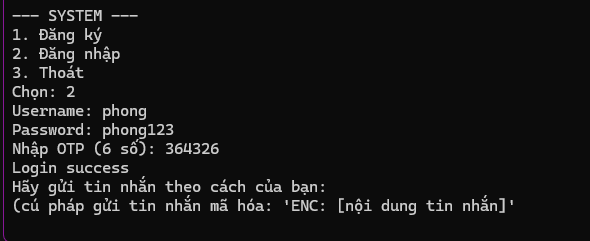
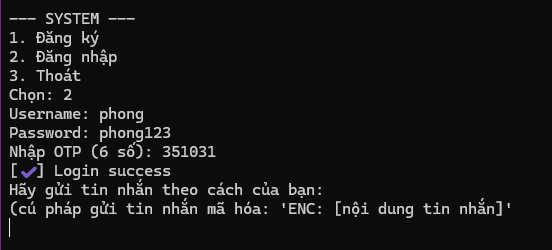
src

Changed region(s): [[0.0, 0.0, 0.9239, 1.0]]

diff --git a/src/client.py b/src/client.py
@@ -1,4 +1,4 @@
-import socket, ssl, threading
+import socket, ssl, threading, base64, os
 from cryptography.fernet import Fernet
 
 host = '127.0.0.1'
@@ -14,13 +14,32 @@ except:
 def receive(sock):
     while True:
         try:
-            data = sock.recv(1024)
+            data = sock.recv(5242880)
             if not data: break
-            try: #nếu tin nhắn mã hóa E2EE
-                print(f"\n[Room chat]: {cipher.decrypt(data).decode()}")
-            except: #nếu tin nhắn không mã hóa
-                print(data.decode(), end ="", flush=True) #flush để hiện hết dữ liệu ra màn hình, tránh bị giữ trong bộ đệm
-        except: break
+            try: 
+                decrypted_text = cipher.decrypt(data).decode()
+
+                if decrypted_text.startswith("File:"): #nếu là gửi file
+                    parts = decrypted_text.split("|", 1) # 1 nghĩa là chỉ cắt ở dấu | đầu tiên tìm thấy
+                    filename = parts[0].replace("File:","") #xóa chữ File: đi, chỉ để lại tên file
+                    file_b64 = parts[1]
+
+                    file_bytes = base64.b64decode(file_b64)
+
+                    #lưu file vào máy 
+                    save_path = "downloaded_" + filename
+                    with open(save_path, "wb") as f: 
+                        f.write(file_bytes)
+                    print(f"\n[📂] Đã nhận file '{save_path}'")
+                else: #nếu là tin nhắn text mã hóa bình thường
+                    print(f"\n[🔑] {decrypted_text}")
+            except: 
+                #Nếu tin nhắn không mã hóa (menu hệ thống)
+                print(data.decode(), end ="", flush=True) #end="" để không tự động xuống dòng
+                                                        #flush=true để hiển thị luôn ra màn hình, tránh giữ lại trong buffer
+        except Exception as e:
+            break
+
 
 def start_client():
     #bỏ qua check chứng chỉ uy tín không
@@ -41,8 +60,31 @@ def start_client():
         msg = input()
         if msg == 'exit': break
 
+        #nếu gõ "File: đường dẫn file" thì sẽ gửi file mã hóa
+        if msg.startswith("File:"):
+            file_path = msg[5:].strip()
+            if os.path.exists(file_path):
+                filename = os.path.basename(file_path)
+
+                #1. đọc file dưới dạng nhị phân
+                with open(file_path, "rb") as f:
+                    file_data = f.read()
+                
+                #2. encode base64 file
+                file_b64 = base64.b64encode(file_data).decode('utf-8')
+
+                #3. ghép thành chuỗi dài
+                payload = f"File:{filename}|{file_b64}"
+
+                #4. mã hóa E2EE
+                enc_payload = cipher.encrypt(payload.encode())
+                s.sendall(enc_payload)
+                print(f"[✔] Đã mã hóa và gửi file {filename}")
+            else: 
+                print(f"[❌] không tìm thấy tệp: {filename}")
+
         #nếu gõ "ENC: nội dung" thì sẽ mã hóa
-        if msg.startswith("ENC:"):
+        elif msg.startswith("ENC:"):
             real_msg = msg[4:]
             enc = cipher.encrypt(real_msg.encode())
             s.sendall(enc)

diff --git a/src/server.py b/src/server.py
@@ -33,9 +33,9 @@ def handle_client(client_sock, addr):
 
                     uri = pyotp.TOTP(otp_secret).provisioning_uri(name=u, issuer_name="SecureApp")
                     link = f"https://api.qrserver.com/v1/create-qr-code/?data={uri}&size=200x200"
-                    client_sock.sendall(f"Đăng ký thành công\nSecret: {otp_secret}\nLink QR: {link}\n".encode())
+                    client_sock.sendall(f"[✔] Đăng ký thành công\nSecret: {otp_secret}\nLink QR: {link}\n".encode())
                 except: 
-                    client_sock.sendall("Lỗi: Username đã tồn tại!\n".encode())
+                    client_sock.sendall("[❌] Username đã tồn tại!\n".encode())
             elif choice == '2':
                 client_sock.sendall("Username: ".encode()); u = client_sock.recv(1024).decode().strip()
                 client_sock.sendall("Password: ".encode()); p = client_sock.recv(1024).decode().strip()
@@ -51,21 +51,21 @@ def handle_client(client_sock, addr):
                         client_sock.sendall("Nhập OTP (6 số): ".encode())
                         otp_in = client_sock.recv(1024).decode().strip()
                         if pyotp.TOTP(otp_sec).verify(otp_in):
-                            client_sock.sendall("Login success\n".encode())
+                            client_sock.sendall("[✔] Login success\n".encode())
                             client_sock.sendall("""Hãy gửi tin nhắn theo cách của bạn:
 (cú pháp gửi tin nhắn mã hóa: 'ENC: [nội dung tin nhắn]'\n""".encode())
                             username = u
                             clients.append(client_sock)
                             break
-                        else: client_sock.sendall("Sai OTP!\n".encode())
-                    else: client_sock.sendall("Sai password!\n".encode())
-                else: client_sock.sendall("user không tồn tại!\n".encode())
+                        else: client_sock.sendall("[❌] Sai OTP!\n".encode())
+                    else: client_sock.sendall("[❌] Sai password!\n".encode())
+                else: client_sock.sendall("[❌] user không tồn tại!\n".encode())
             elif choice == '3':
                 break
 
         #vòng lặp chat
         while True: 
-            msg = client_sock.recv(1024)
+            msg = client_sock.recv(5242880)
             if not msg: 
                 break
             print(msg)

diff --git a/README.md b/README.md
@@ -1,6 +1,6 @@
 # 🔒 Secure Chat System
 
-Hệ thống chat an toàn được viết bằng **Python**, tích hợp các cơ chế bảo mật tiêu chuẩn để đảm bảo tính Bí mật (Confidentiality), Toàn vẹn (Integrity) và Xác thực (Authentication).
+Hệ thống chat và gửi file an toàn được viết bằng **Python**, tích hợp các cơ chế bảo mật tiêu chuẩn để đảm bảo tính Bí mật (Confidentiality), Toàn vẹn (Integrity) và Xác thực (Authentication).
 
 ## 🚀 Tính năng nổi bật
 
@@ -9,7 +9,7 @@ Dự án tập trung giải quyết các vấn đề bảo mật mạng cơ bả
 - **Mã hóa đường truyền (Transport Security):** Sử dụng **SSL/TLS** (Self-signed certificate) để chống nghe lén (Man-in-the-Middle).
 - **Mã hóa đầu cuối (End-to-End Encryption):** Tin nhắn được mã hóa bằng **Fernet (AES)**, Server chỉ đóng vai trò trung chuyển và không thể đọc nội dung tin nhắn.
 - **Xác thực mạnh (Authentication):**
-  - Password được băm (Hashing) bằng **SHA-256** kết hợp với **Salt** để chống tấn công Rainbow Table.
+  - Password được băm (Hashing) bằng **SHA-256** kết hợp với **Salt**.
   - Tích hợp **2FA (Two-Factor Authentication)** sử dụng TOTP (Google Authenticator).
 - **Cơ sở dữ liệu:** Sử dụng SQLite để quản lý người dùng.
 - **Đa luồng (Multithreading):** Server có thể xử lý nhiều Client cùng lúc.
@@ -25,7 +25,7 @@ Dự án tập trung giải quyết các vấn đề bảo mật mạng cơ bả
   - `pyotp`: Tạo mã OTP và QR Code.
   - `sqlite3`: Lưu trữ dữ liệu.
 
-## ⚙ Cài đặt & Chạy (Installation)
+## ⚙ Cài đặt & Chạy
 
 ### 1. Cài đặt thư viện
 
@@ -95,7 +95,7 @@ Sau khi đăng ký thành công, hệ thống trả về mã QR. Người dùng 
 Giao diện sau khi nhập đúng mật khẩu và mã OTP.
 ![Chat Interface](images/image4.png)
 
-Tin nhắn ở phía server có thể nhìn thấy chỉ là tin nhắn mã hóa
+Tin nhắn ở phía server có thể nhìn thấy chỉ là tin nhắn mã hóa (đối với tin nhắn E2EE)
 ![image](images/image5.png)
 
 ### 💡 Hướng dẫn gửi tin nhắn (nhắn tin qua lại giữa các máy client)
@@ -109,6 +109,14 @@ Hệ thống hỗ trợ 2 chế độ gửi tin:
 
 ```powershell
 ENC: Hello world
+```
+### 💡 Hướng dẫn gửi file
+
+Gửi file theo cú pháp: File: <đường dẫn file>
+
+**Ví dụ:**
+```powershell
+File: D:\Download\file.txt
 ```
 
 ## 🛡Kiểm chứng mã hóa bằng WireShark
